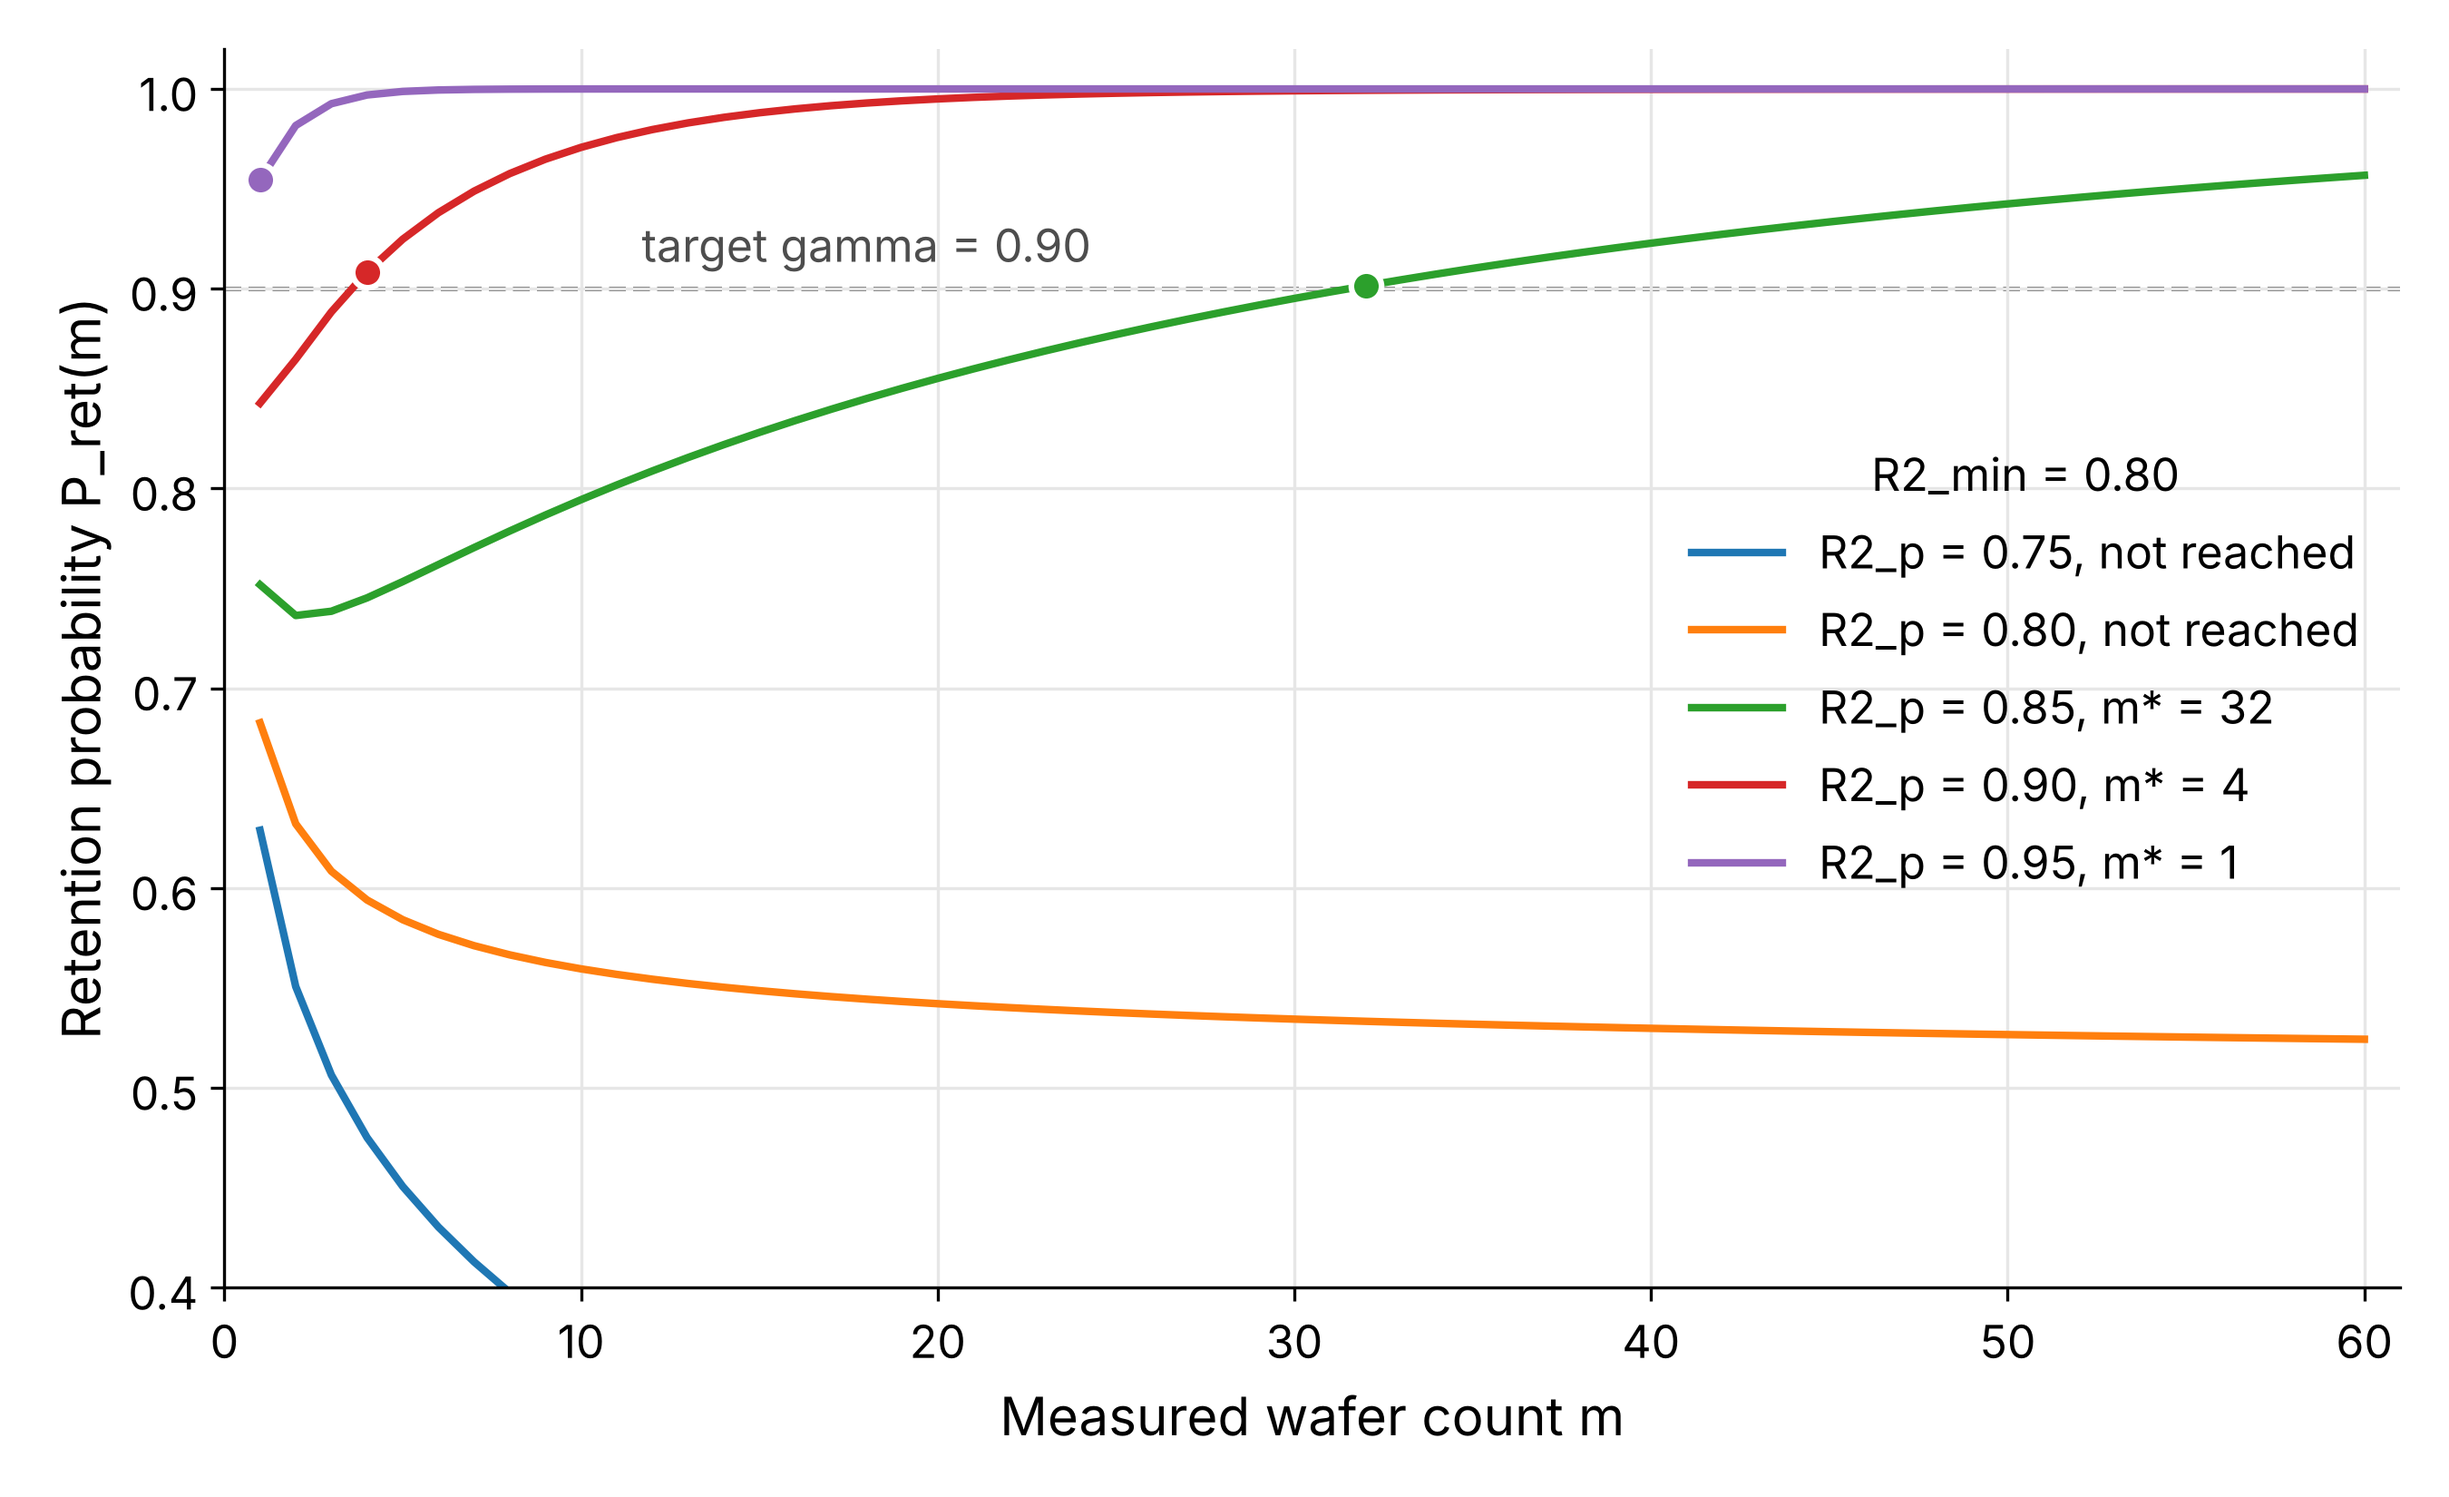
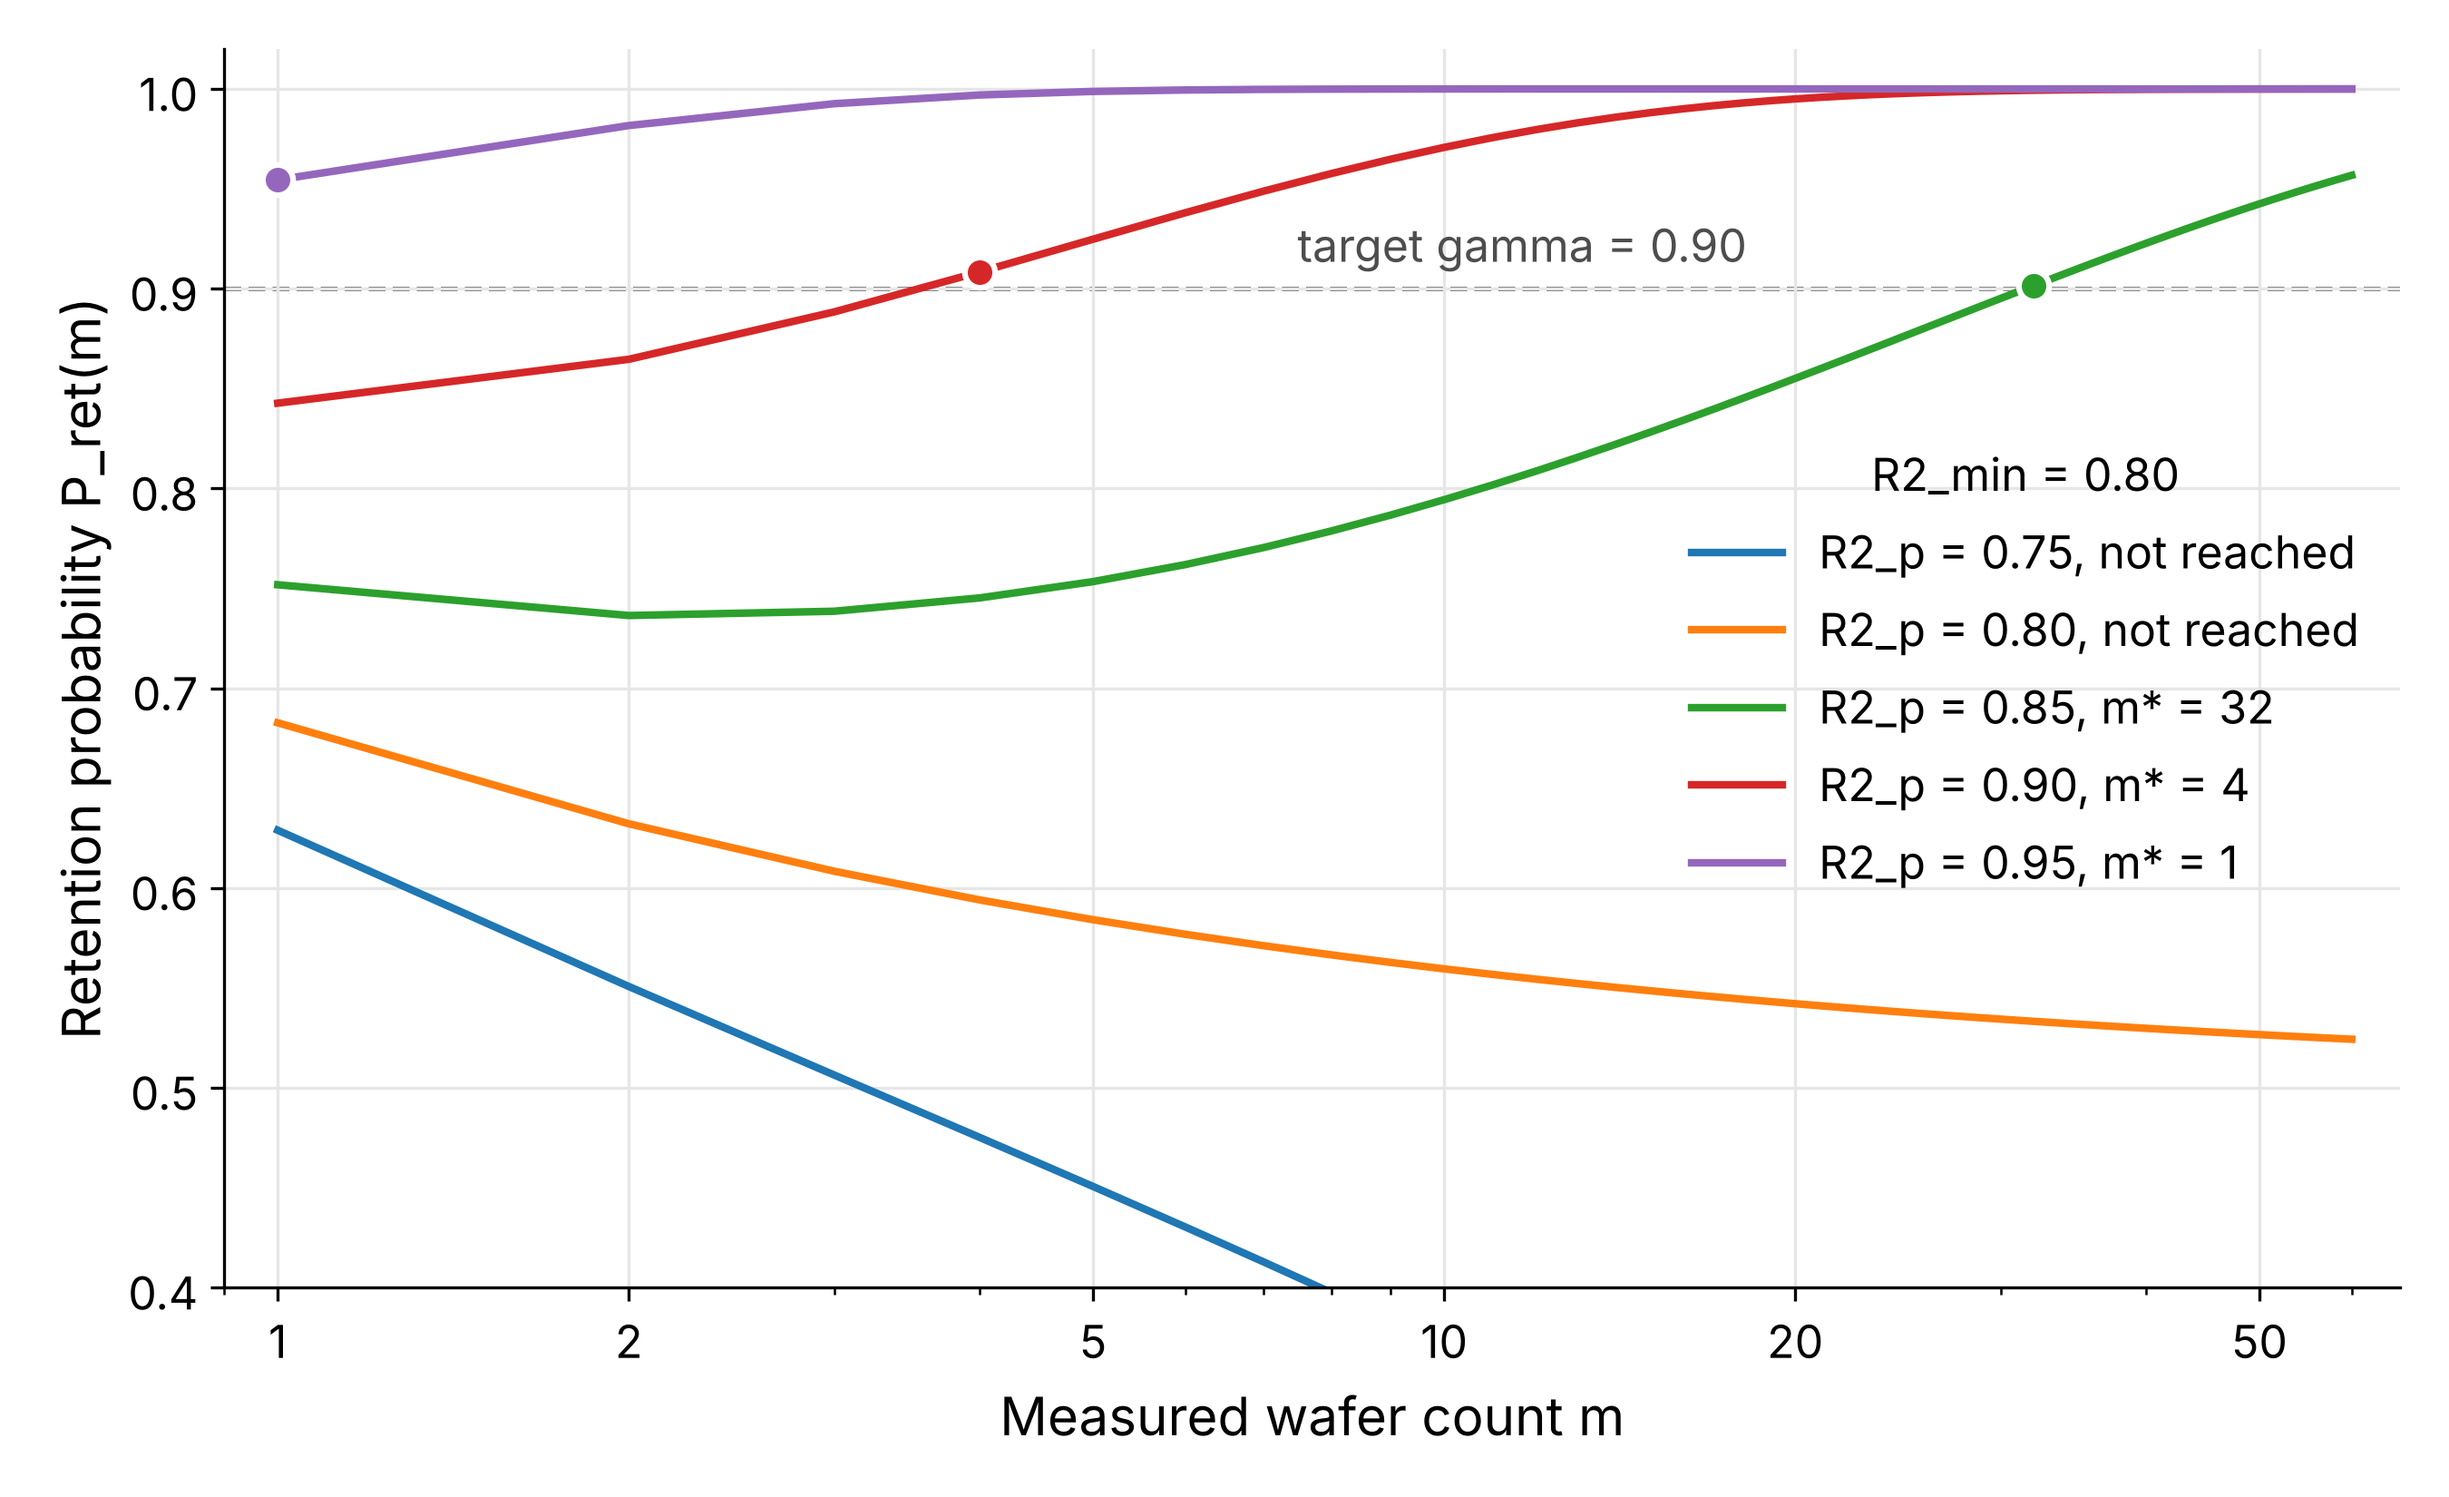
Draw Fig 1 on a log x axis
Claude-Session: https://claude.ai/code/session_01MWX29BqcVb5TuLyU7SRknu

diff --git a/Deployment/R2-Retention-Probability/src/r2_retention_chart.py b/Deployment/R2-Retention-Probability/src/r2_retention_chart.py
@@ -9,10 +9,11 @@ Changelog:
     0.1.0 - Draw the retention probability on a log y axis.
     0.2.0 - Return to a linear y axis from 0.4 to 1.
     0.3.0 - Show m* in the legend instead of a label beside each marker.
+    0.4.0 - Draw the measured wafer count on a log x axis.
 """
 
 __author__ = 'yRocket'
-__version__ = "0.3.2+20261108"  # Semantic Versioning: Major.Minor.Patch+YYYYMMDD
+__version__ = "0.4.0+20261109"  # Semantic Versioning: Major.Minor.Patch+YYYYMMDD
 
 import argparse
 import pathlib
@@ -25,6 +26,7 @@ matplotlib.use('Agg')
 import matplotlib.pyplot as plt
 import pandas as pd
 from matplotlib.colors import TABLEAU_COLORS
+from matplotlib.ticker import FixedLocator, NullFormatter, ScalarFormatter
 
 from r2_sampling_ratio import required_measured, retention_probability
 
@@ -37,7 +39,8 @@ REFERENCE_WIDTH: Final[float] = 9.0
 FONT_SIZES: Final[dict] = {'text': 12.0, 'axis_label': 14.0, 'text_box': 12.0, 'pane_caption': 14.0}  # points
 DPI: Final[int] = 300
 Y_RANGE: Final[tuple] = (0.4, 1.02)  # curves below 0.4 leave the plot; the CSV keeps their full values
-TARGET_LABEL_FRACTION: Final[float] = 0.3  # x position of the target label, as a share of the x axis
+TARGET_LABEL_EXPONENT: Final[float] = 0.6  # target label at max_measured ** this, a share of the log x axis
+X_TICKS: Final[tuple] = (1, 2, 5, 10, 20, 50, 100, 200, 500, 1000)
 
 
 def retention_curves(r2_models: list = None, r2_min: float = None, max_measured: int = None) -> pd.DataFrame:
@@ -71,7 +74,7 @@ def draw_chart(curves: pd.DataFrame = None, confidence: float = None, figure_pat
 
     fig, ax = plt.subplots(figsize=FIGSIZE)
     ax.axhline(confidence, color='0.45', linestyle='--', linewidth=1.2, zorder=1)
-    ax.text(TARGET_LABEL_FRACTION * max_measured, confidence + 0.008, f"target gamma = {confidence:.2f}",
+    ax.text(max_measured ** TARGET_LABEL_EXPONENT, confidence + 0.008, f"target gamma = {confidence:.2f}",
             ha='center', va='bottom',
             color='0.30', fontsize=FONT_SIZES['text_box'] * scale)
 
@@ -88,7 +91,11 @@ def draw_chart(curves: pd.DataFrame = None, confidence: float = None, figure_pat
             ax.plot(plan.measured, plan.retention, marker='o', markersize=8, color=color,
                     markeredgecolor='white', markeredgewidth=1.5, zorder=3)
 
-    ax.set_xlim(0, max_measured + 1)
+    ax.set_xscale('log')
+    ax.set_xlim(0.9, max_measured * 1.1)
+    ax.xaxis.set_major_locator(FixedLocator([x for x in X_TICKS if x <= max_measured]))
+    ax.xaxis.set_major_formatter(ScalarFormatter())
+    ax.xaxis.set_minor_formatter(NullFormatter())
     ax.set_ylim(*Y_RANGE)
     ax.set_xlabel('Measured wafer count m')
     ax.set_ylabel('Retention probability P_ret(m)')
